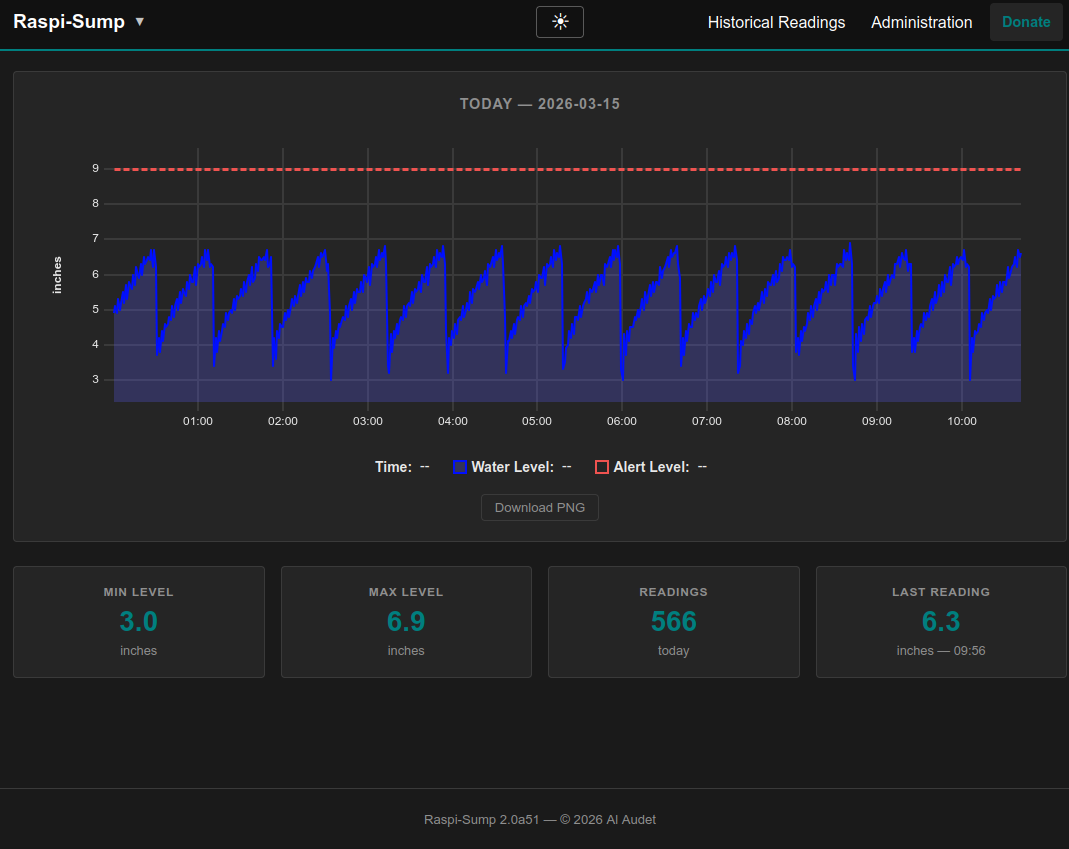
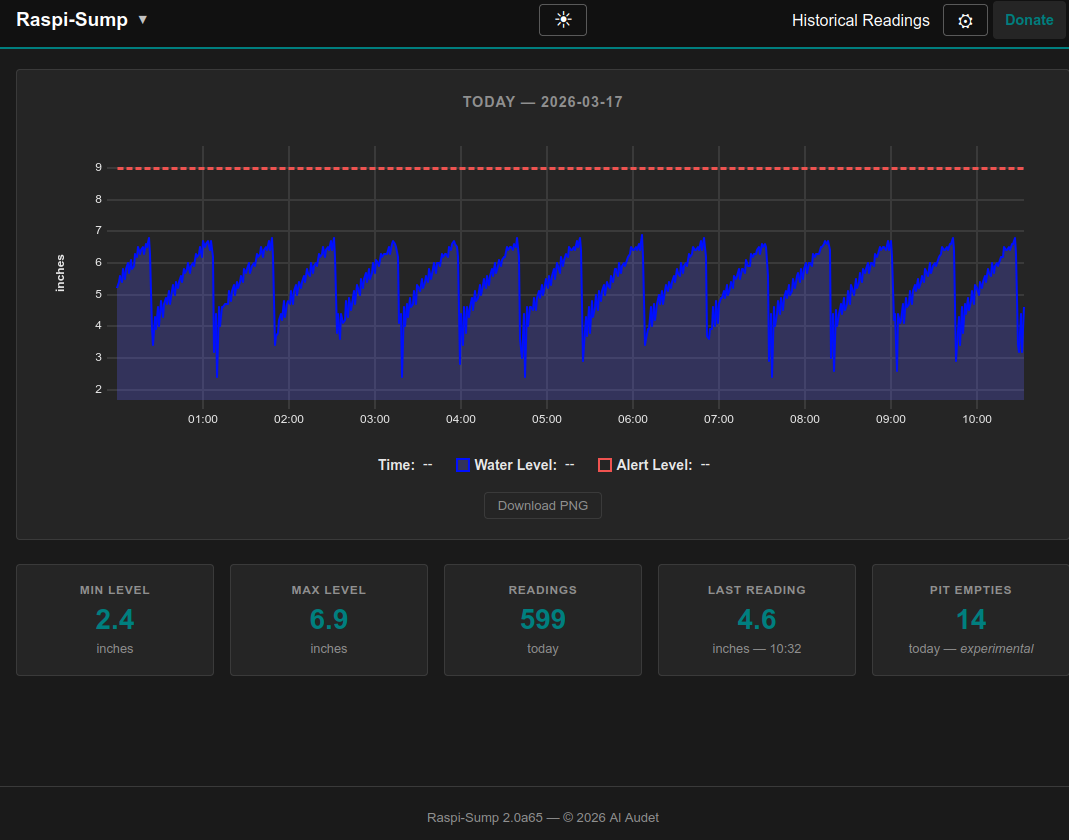
update README.md

diff --git a/README.md b/README.md
@@ -1,4 +1,34 @@
-# Raspi-Sump
+# Raspi-Sump Version 2
+
+Raspi-Sump Version 2 is ready for alpha testing.
+
+## Alpha Install (Unstable)
+
+Alpha releases are available via the Linuxnorth APT repository. This is an
+unstable channel intended for testers — use on a production system at your own risk.
+
+You must remove any previous versions of Raspi-Sump or hcsr04sensor before doing this.  If you are not sure what to do ask in the Issue Tracker.
+
+```bash
+# 1. Import the signing key
+curl -fsSL https://apt.linuxnorth.org/public_key.asc \
+  | sudo gpg --dearmor -o /usr/share/keyrings/linuxnorth-archive-keyring.gpg
+
+# 2. Add the repository
+echo "deb [signed-by=/usr/share/keyrings/linuxnorth-archive-keyring.gpg] \
+  https://apt.linuxnorth.org unstable main" \
+  | sudo tee /etc/apt/sources.list.d/linuxnorth.list
+
+# 3. Install
+sudo apt update
+sudo apt install raspisump
+```
+
+Please report issues in the [issue tracker](https://github.com/alaudet/raspi-sump/issues).
+
+---
+
+# About
 
 Raspi-Sump is a sump pit water level monitoring system for the Raspberry Pi. It uses an ultrasonic sensor to continuously measure water depth, logs all readings to a local SQLite database, sends email (email to SMS recommended) or Mastodon alerts if the water reaches a critical level, and provides a built-in web interface for monitoring and administration.
 
@@ -51,19 +81,19 @@ Version 2.0 is a complete rewrite:
 - FHS-compliant paths (`/etc/raspi-sump/`, `/var/log/raspi-sump/`, `/var/lib/raspi-sump/`)
 - systemd services for both the monitor and web interface
 
-See the [changelog](https://github.com/alaudet/raspi-sump/blob/master/debian/changelog) for full details.
+See the [changelog](https://github.com/alaudet/raspi-sump/blob/main/debian/changelog) for full details.
 
 ---
 
 ## Install
 
-See the [install guide](https://github.com/alaudet/raspi-sump/blob/master/docs/install.md).
+See the [install guide](https://github.com/alaudet/raspi-sump/blob/main/docs/install.md).
 
 ---
 
 ## Upgrade
 
-See the [upgrade guide](https://github.com/alaudet/raspi-sump/blob/master/docs/upgrade.md).
+See the [upgrade guide](https://github.com/alaudet/raspi-sump/blob/main/docs/upgrade.md).
 
 ---
 
@@ -95,15 +125,15 @@ Best practices:
 
 ## License
 
-Version 2.0 is released under the [Apache 2.0 License](https://github.com/alaudet/raspi-sump/blob/master/LICENSE).
+Version 2.0 is released under the [Apache 2.0 License](https://github.com/alaudet/raspi-sump/blob/main/LICENSE).
 
-Version 1.x was released under the MIT License.
+
 
 ---
 
 ## Contributing
 
-Please read the [Contributing Guidelines](https://github.com/alaudet/raspi-sump/blob/master/CONTRIBUTING.md) before submitting a pull request.
+Please read the [Contributing Guidelines](https://github.com/alaudet/raspi-sump/blob/main/CONTRIBUTING.md) before submitting a pull request.
 
 ---
 
